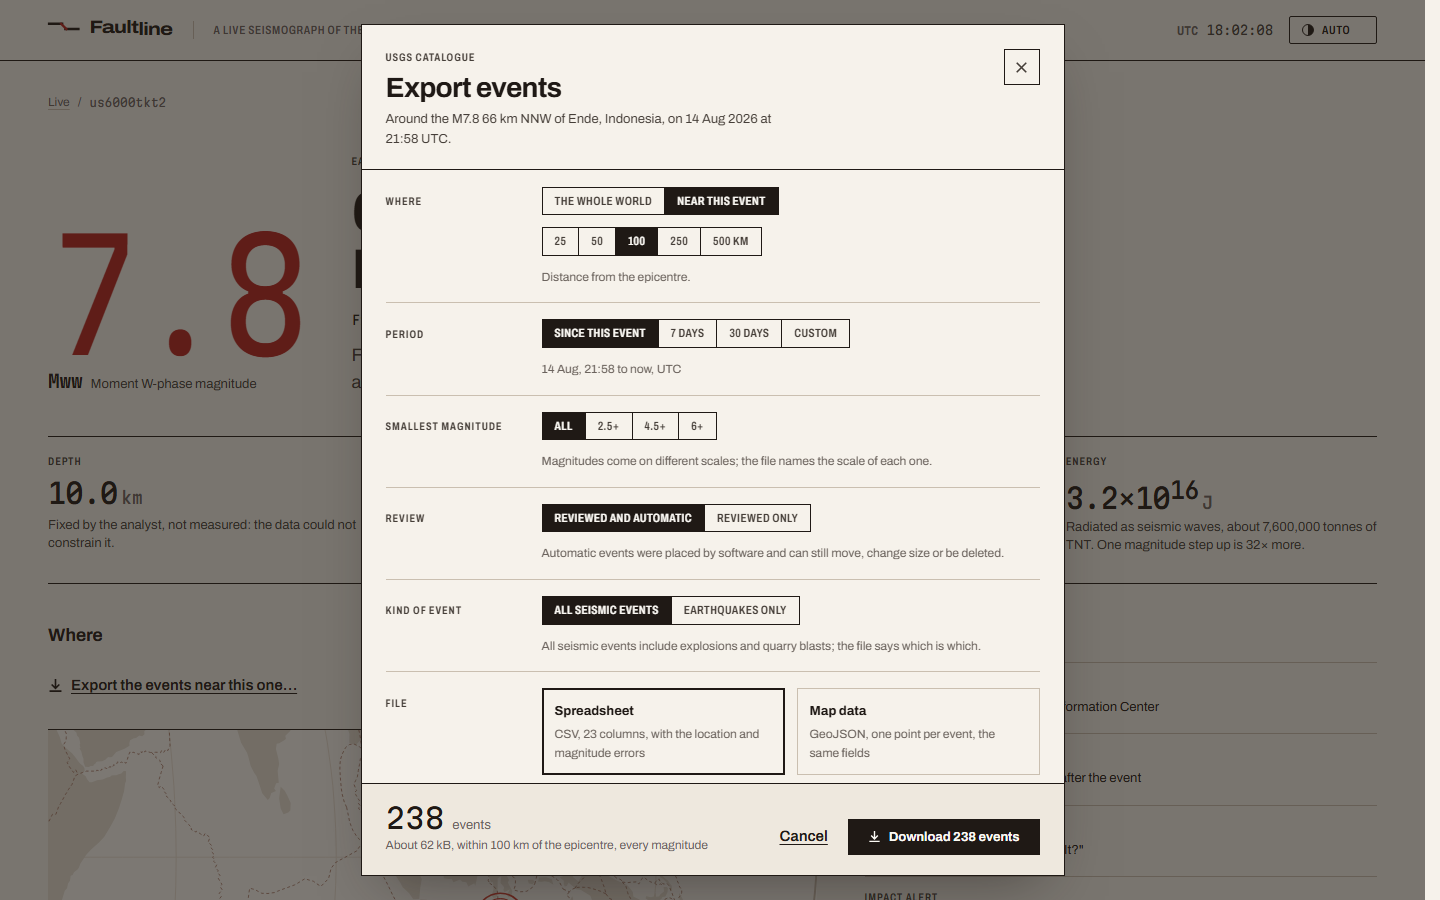
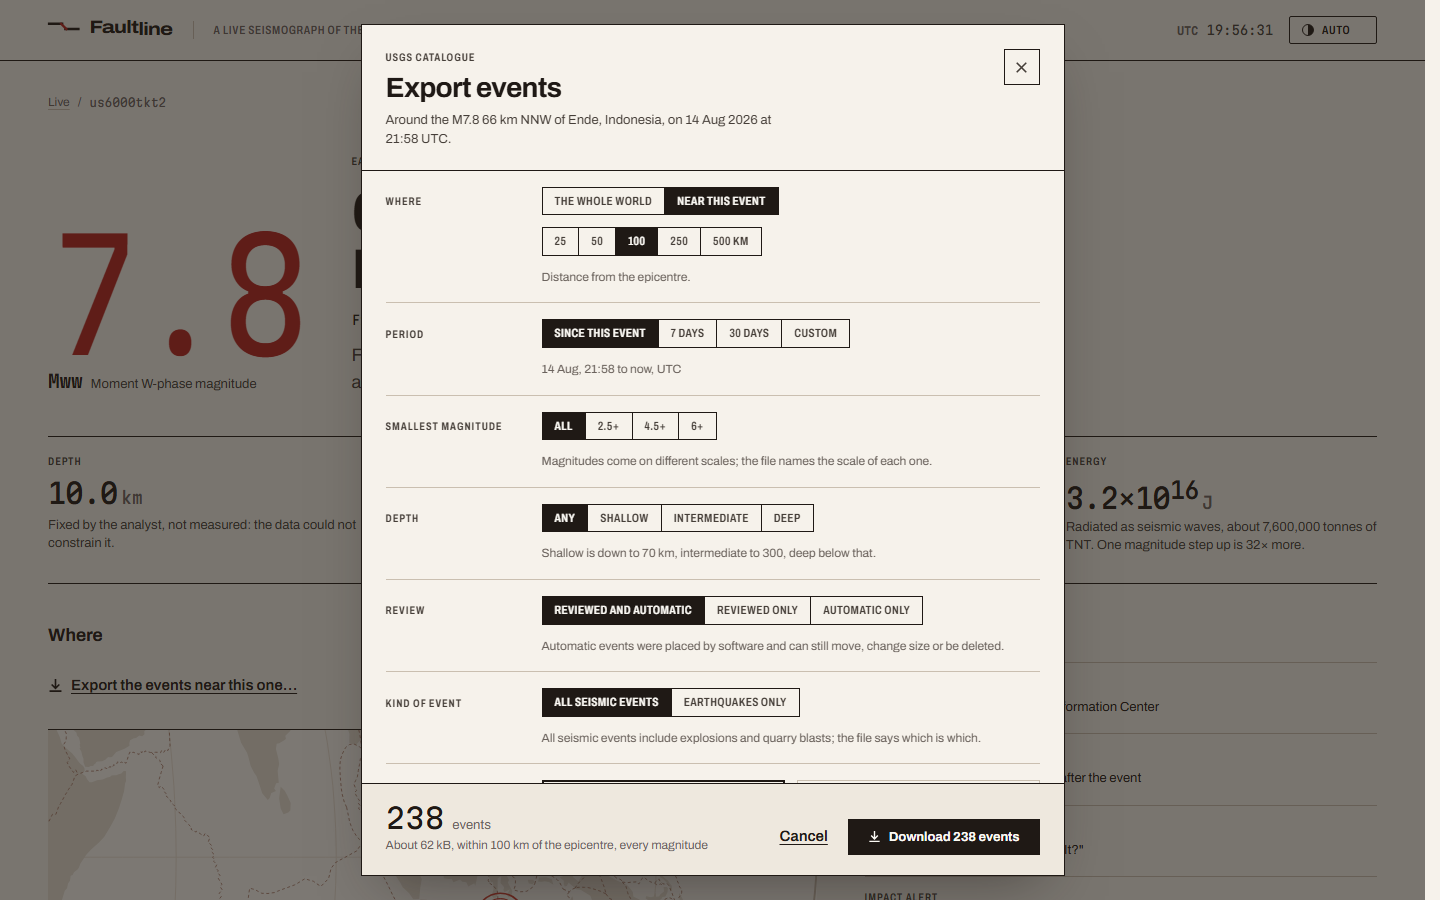
docs: add the log's filters, search and order to the README and CLAUDE.md

diff --git a/scripts/capture-screenshots.ts b/scripts/capture-screenshots.ts
@@ -77,6 +77,25 @@ const SHOTS: readonly Shot[] = [
   // M5.4 north of Svalbard: reviewed, depth fixed by the analyst, full uncertainty.
   { name: 'quake-paper', path: '/quakes/us6000ty57', scheme: 'light' },
   { name: 'live-phone-film', path: '/', scheme: 'dark', viewport: PHONE },
+  // Every Californian event of the day, largest first: the facets counted, the order in the heading.
+  {
+    name: 'log-film',
+    path: '/?mag=any&region=california&sort=largest',
+    scheme: 'dark',
+    area: 'fl-event-log',
+  },
+  // The filters of a phone, in their sheet over the log they filter.
+  {
+    name: 'log-phone-paper',
+    path: '/?depth=shallow',
+    scheme: 'light',
+    viewport: PHONE,
+    prepare: async (page) => {
+      await page.locator('fl-event-log').evaluate((log) => log.scrollIntoView({ block: 'start' }));
+      await page.getByRole('button', { name: /^Filters/ }).click();
+      await page.getByRole('dialog', { name: 'Filters' }).waitFor();
+    },
+  },
   // The M7.8 near Ende, 14 August 2026, and its aftershocks since.
   {
     name: 'export-paper',

diff --git a/README.md b/README.md
@@ -2,7 +2,7 @@
 
 A live seismograph of the planet, on top of the [USGS earthquake catalogue](https://earthquake.usgs.gov/earthquakes/feed/), which gathers what the global and US regional seismic networks locate: around two hundred events on an ordinary day.
 
-Read the last 24 hours the way a drum seismograph draws them, one line per hour and one burst per event, and point at any burst, even one too small to see, for what it was. Set the day's sizes against an average day on Earth, filter the log by magnitude, then open any event for its magnitude scale, how its depth was found, the uncertainty of its location and the energy it released. Any search of the catalogue, an event's aftershocks included, exports as a spreadsheet or as map data.
+Read the last 24 hours the way a drum seismograph draws them, one line per hour and one burst per event, and point at any burst, even one too small to see, for what it was. Set the day's sizes against an average day on Earth, filter, search and sort the log of every event, then open any event for its magnitude scale, how its depth was found, the uncertainty of its location and the energy it released. Any search of the catalogue, an event's aftershocks included, exports as a spreadsheet or as map data.
 
 Angular 22, zoneless with signals, SSR with incremental hydration, and an Express backend-for-frontend.
 
@@ -18,6 +18,14 @@ Angular 22, zoneless with signals, SSR with incremental hydration, and an Expres
 **The whole page: readouts, the map and every event**
 
 ![The full live page: the helicorder, the day's readouts, an Equal Earth map with plate boundaries, the day's sizes and the event log](docs/screenshots/live-full-paper.png)
+
+**The log, filtered to one region and sorted by size, dark theme**
+
+![The event log with its facets: magnitude, region, depth, review and kind, each option counted; every Californian event of the day, largest first](docs/screenshots/log-film.png)
+
+**The log's filters on a phone, in a sheet over the list**
+
+![The filters sheet on a phone: the same facets stacked, and a button that says how many events they leave](docs/screenshots/log-phone-paper.png)
 
 **Reading an event off the trace**
 
@@ -96,7 +104,7 @@ Depths are unsure in two directions. Many are fixed by an analyst when the data 
 | Route | What it is |
 | --- | --- |
 | `/` | The last 24 hours: the helicorder, the day's readouts, the map, the day's sizes against an average day, every event, and an export of any search |
-| `/?min=4.5` | The same page with the log at another threshold: `all`, `2.5` (the default) or `4.5` |
+| `/?mag=any&region=alaska&sort=largest` | The same page with the log filtered, searched or sorted: `mag` (`any`, `2.5` by default, `4.5`), `region`, `depth` (`shallow`, `intermediate`, `deep`), `review` (`reviewed`, `automatic`), `kind` (`earthquake`, `other`), `q` for a place, and `sort` (`largest`, `deepest`) |
 | `/?rows=all` | The same page with the log unfolded past its latest ten events |
 | `/quakes/:id` | One event: magnitude and its scale, depth and how it was found, location uncertainty, energy, impact alert, and an export of the events around it |
 
@@ -116,10 +124,11 @@ Depths are unsure in two directions. Many are fixed by an analyst when the data 
 - **Dialogs are the platform's.** `ui-dialog` is the native `<dialog>`, opened with `showModal()`: the page behind is inert, Escape and a click outside close it, and focus returns to the button that opened it, none of it reimplemented. It fades in with `@starting-style`, fills the screen on a phone with its actions under the thumb, and its code is a separate chunk, fetched when the browser is idle and rendered on the first click.
 - **Server state is TanStack Query, only where it is used.** The live count is one query per search, so going back to a choice answers from memory, and the last count stays up, marked provisional, while the next one loads. The query client is provided inside the dialog's chunk through an injection token, not in the app config, so the library never reaches the first load. The custom period is a Signal Form checked by the same Zod schema the BFF applies, imported as `zod/mini`, because the classic API cannot be tree-shaken.
 - **The log never moves under its reader.** It opens at its latest ten events, about a screen's worth, and unfolds to the rest from a link. A new event that lands while the reader can see the log, or has scrolled past it, waits above it behind a count a screen reader hears, instead of pushing down the rows being read. Shown, the new rows are tinted for a few seconds and the first takes the focus, as the first row added by unfolding does. Below the fold nothing is held: the list is up to date by the time the reader gets there.
-- **Filter state lives in the URL.** `?min=4.5` is a link, bound to the page through the router, and so is `?rows=all`, which unfolds the log. No store, no watcher. Sharing, bookmarking and the back button work with nothing written for them, and changing the filter keeps the reader where they were instead of throwing them back to the top.
+- **The log's view lives in the URL.** Every filter, the search, the order and the fold are query parameters bound to the page through the router, each named after what it sets and holding a word that reads on its own: `?mag=any&region=alaska&sort=largest`. A default is left out and the rest is written in one order, so one view has one address; a value the app does not know reads as its default rather than failing the page, and a parameter the page forgets to bind fails to compile. No store, no watcher. Sharing, bookmarking and the back button work with nothing written for them, and a change keeps the reader where they were instead of throwing them back to the top.
+- **The log is an index, not a data grid.** Five facets, magnitude, region, depth, review and kind, list their options with the count the list would hold with that option and the other filters kept, so an option that leads nowhere says so before it is followed. The region is read out of the USGS place name, where the Californian networks write California and Mexico as codes and a remote event names only its seismic region. The search matches the place and its region without accents, so "pahala" finds Pāhala, and marks what it found. Options are links and the search is a plain form, so both work before the page has hydrated, and the long tail of regions opens in a native popover anchored in CSS. On a phone the facets move into a sheet and each event takes two lines; the table spells out its roles in its markup, since restyling rows as grids strips them in some browsers. The export opens on the same filters, as far as the catalogue can select by them, and names the ones it leaves in the log.
 - **Missing data is a value, never a zero.** A magnitude not computed yet shows an em-dash, a depth fixed by an analyst says so instead of posing as a measurement, and every uncertainty sits next to the number it qualifies.
 - **The design system is tokens and cascade layers.** Colours are OKLCH, declared once each with `light-dark()`, so a theme is nothing more than a `color-scheme`. The theme is a cookie the server reads, so the first paint is already right, with no inline script. Archivo and Martian Mono are self-hosted under content-hashed names, preloaded, and backed by local fallbacks whose metrics are matched with Capsize, so the swap does not move the layout. Icons are drawn for the app in the wordmark's square-ended stroke, on a 16 px grid, inlined as SVG by one component, and decoration wherever a word already says the same.
-- **Two dependencies are patched, each with its reason.** TanStack Query read one symbol off the whole `@angular/core` namespace, which kept every export of Angular in the first load: 160 kB more on every page, caught by the bundle budget, since tightened to catch the next one. Angular's incremental hydration dropped a click that landed on a section already hydrating, which cost the log's Export button its first press on a slow connection. Both are `pnpm patch`es, explained in `pnpm-workspace.yaml`, and keyed so that an upgrade touching either file fails the install rather than dropping the fix.
+- **Two dependencies are patched, each with its reason.** TanStack Query read one symbol off the whole `@angular/core` namespace, which kept every export of Angular in the first load: 160 kB more on every page, caught by the bundle budget, since tightened to catch the next one. It did: a library pipe used only inside a `@defer` block is imported through its package's whole namespace, which added 50 kB to the first load, most of it `@angular/common`, until the block's content became a component of the app. Angular's incremental hydration dropped a click that landed on a section already hydrating, which cost the log's Export button its first press on a slow connection. Both are `pnpm patch`es, explained in `pnpm-workspace.yaml`, and keyed so that an upgrade touching either file fails the install rather than dropping the fix.
 - **Boundaries are enforced, not agreed.** ESLint rejects imports that cross layers: `src/shared` is framework-free, `src/server` never imports Angular, `src/app/ui` knows nothing about earthquakes, and the browser code only reaches the BFF over HTTP.
 
 ---
@@ -131,7 +140,7 @@ pnpm run ci    # format, lint, types, and the unit specs with coverage
 pnpm run e2e   # Playwright across two viewports, on a production build
 ```
 
-The suites divide by what they can see. Vitest covers the domain, the USGS mapping, the cache, the API router, the export's paging and CSV, the helicorder geometry, what a point on the trace means and the day's distribution of sizes as plain functions, and components through the DOM they render. Playwright owns what only a browser and the real server can answer: whether the page is complete before any script runs, whether hydration asks the API again, which status a crawler gets for a missing event, what an outage looks like, what a downloaded file really holds, whether a burst can be read by mouse, by finger and from the keyboard, and whether the log holds an event that lands in view. It runs the production server against a stub of the USGS serving a small, awkward day, searchable and exportable like the real service, and audits every page, the export dialog, a card read off the trace and the log holding a new event with axe against WCAG 2.2 AA in both themes. Five things were broken until the suite caught them: error pages refetched while hydrating, the top bar and footer sat outside any landmark, the Export button lost a press that landed while its section was hydrating, the chart's hidden table widened the page on a phone, and the trace's labels were too small as targets once the trace under them became one.
+The suites divide by what they can see. Vitest covers the domain, the USGS mapping, the cache, the API router, the export's paging and CSV, the helicorder geometry, what a point on the trace means and the day's distribution of sizes as plain functions, and components through the DOM they render. Playwright owns what only a browser and the real server can answer: whether the page is complete before any script runs, whether hydration asks the API again, which status a crawler gets for a missing event, what an outage looks like, what a downloaded file really holds, whether a burst can be read by mouse, by finger and from the keyboard, whether the log holds an event that lands in view, and whether a filtered, searched or sorted log renders on the server as its address asks, the search included before any script runs. It runs the production server against a stub of the USGS serving a small, awkward day, searchable and exportable like the real service, and audits every page, the export dialog, a card read off the trace, the log holding a new event, the popover of every region and the filters sheet of a phone with axe against WCAG 2.2 AA in both themes. Five things were broken until the suite caught them: error pages refetched while hydrating, the top bar and footer sat outside any landmark, the Export button lost a press that landed while its section was hydrating, the chart's hidden table widened the page on a phone, and the trace's labels were too small as targets once the trace under them became one.
 
 The first run needs the browser: `pnpm exec playwright install chromium`.
 

diff --git a/CLAUDE.md b/CLAUDE.md
@@ -26,10 +26,11 @@ Layers are enforced by ESLint (`eslint.config.js`); do not weaken the rules to m
 ## Conventions
 
 - Angular 22 idioms: standalone components (never set `standalone`), OnPush is the default (never set it), `input()`/`output()`, signals and `computed()`, `@if`/`@for`, `inject()`, `@Service()` for new singletons, host bindings in `host: {}`.
-- Data: `httpResource` via `core/api/quakes.ts`; read values behind `hasValue()`. No stores: URL state goes through router input binding. Server state that needs a client cache, like the export's live count, is TanStack Query, provided through `QUERY_CLIENT` in the lazy chunk that uses it, never in the app config.
+- Data: `httpResource` via `core/api/quakes.ts`; read values behind `hasValue()`. No stores: URL state goes through router input binding. The log's is one `LogQuery` (`event-log/log-query.ts`): a parameter per filter, named after what it sets, holding a word that reads on its own, defaults left out and the rest written in one order. Server state that needs a client cache, like the export's live count, is TanStack Query, provided through `QUERY_CLIENT` in the lazy chunk that uses it, never in the app config.
 - Styles: component CSS reads semantic tokens only (`src/styles/tokens.css`). New colours are added as primitives and exposed through a semantic token with `light-dark()`. No Tailwind, no component library.
 - Selectors: `fl-` for app components, `ui-` for design-system components.
 - Dialogs: `ui-dialog`, on the native `<dialog>`; never a hand-built overlay. A dialog's code is its own chunk, rendered with `@defer (when open(); prefetch on idle)`.
+- Filters that are links show the count their view would hold, the other filters kept (see `facets.ts`); an option that would empty the list is text, not a link.
 - Live lists never move under the reader: an arrival waits behind a count while the list is on screen or scrolled past, and comes in when asked for (see `event-log.ts`).
 - Charts: SVG drawn by a pure module beside the component (`trace.ts`, `distribution.ts`), so the server and the browser draw the same thing. The drawing is `aria-hidden`, and what it says is also in text: a caption, and where the numbers matter a visually hidden table.
 - Icons: drawn for the app, no icon library. Each is one path in `ui/icons.ts`, the centre line of its strokes on a 16 px grid inside a two-unit margin; `ui-icon` strokes it with the wordmark's square ends. Beside a word an icon is decoration; a control that has only an icon, like a dialog's close button, carries an `aria-label`. A standalone link to another site ends with the external-link icon; a link inside running text does not.
@@ -52,6 +53,9 @@ Layers are enforced by ESLint (`eslint.config.js`); do not weaken the rules to m
 - A visually hidden `<table>` still widens the page, since a table grows to fit its cells whatever width it is given: hide a wrapper `div` instead (see `magnitude-chart.html`).
 - The trace is a target of its own, so every label on it is a target beside another, and WCAG 2.5.8 then wants it 24 px tall. The labels keep their look by masking only the band behind their text (see `helicorder.css`).
 - The initial bundle budget is tight on purpose, 400 kB to warn and 450 kB to fail. A library that drags all of Angular into the first load shows up there first: find the cause with `pnpm build --stats-json` rather than raise the budget.
+- A library pipe or directive used only inside a `@defer` block is imported through its package's whole namespace, which keeps every export of it in the first load. Put the block's content in a component of the app instead (see `log-sheet.ts`).
+- A `<table>` restyled with `display: grid` or `block` loses its semantics in some browsers. The log's spells out its roles in the markup so the phone layout can restyle it (see `event-log.html`).
+- A USGS place name is a locality, then the region after the last comma; the Californian networks write `CA` and `MX`, and a remote event has only a Flinn–Engdahl region. Read it with `splitPlace()` in `shared/domain/place.ts`, never by hand.
 - In a unit spec, a TanStack query in flight is a pending task, so `whenStable()` waits for an answer the spec has yet to give. Render with `TestBed.tick()` instead (see `export-dialog.spec.ts`).
 
 ## Design changes

diff --git a/docs/upstream-api.md b/docs/upstream-api.md
@@ -26,6 +26,7 @@ Figures from the day feed of 29 September: 203 events, 145 kB as served, 19 kB g
 - Depth is the third coordinate, in kilometres, and it can be negative: 7 events sat above sea level, the highest at −3.4 km. They are shallow events under high ground, located relative to the sea.
 - Ten events sat at exactly 10 km. That is the depth analysts assign when the data cannot constrain one, but the feed cannot tell a fixed depth from a measured one; only the FDSN `origin` product can, in `depth-type`.
 - `place` is written to follow a magnitude, as in the feed's own `title` (`M 5.6 - southern Mid-Atlantic Ridge`), so some places start lowercase. Standing alone as a heading or a table cell, they get a capital.
+- `place` puts its region after the last comma, and not always as a name. Of the 223 events in the day feed on 30 September, 95 ended in `CA`, the Californian networks' code for California, and one in `B.C., MX`, theirs for Mexico after a Baja California locality; every other network spelled its region out, Mexico included. Two had no comma at all: far from any named place, the USGS gives only a Flinn–Engdahl seismic region, `Balleny Islands region`. The log's region facet reads all three through `src/shared/domain/place.ts`.
 - `type` mixes kinds of event: 4 explosions among 199 earthquakes that day; the week added mining explosions and quarry blasts. They are counted and labelled, and never become the largest earthquake of the day.
 - `ids`, `sources` and `types` are comma-wrapped strings (`,ci41340631,`). 15 events carried more than one id, one per network that reported them; `id` is the preferred one.
 - An `id` is its network's code, then that network's own code for the event: all 212 events of the day feed on 30 September started with their `net`, always two letters. The live page reads the network off the id rather than carry the field.
@@ -118,6 +119,8 @@ So one request holds about eight weeks of every magnitude, about eight months of
 | `includedeleted=true`                 | 328      |
 
 `jsonerror=true` returns errors as GeoJSON, with the message in `metadata.error`, instead of plain text.
+
+`mindepth` and `maxdepth` are both inclusive. Over the week of 23 to 30 September, `maxdepth=10` counted 1,308 events and `maxdepth=9.999` 1,202, and `mindepth=10&maxdepth=10` found the 106 in between, every one at exactly 10 km, the depth analysts fix. So an event at exactly 70 km would fall in both the shallow and the intermediate export, where the log counts it once, as intermediate; none sat there that week.
 
 ## Formats
 
